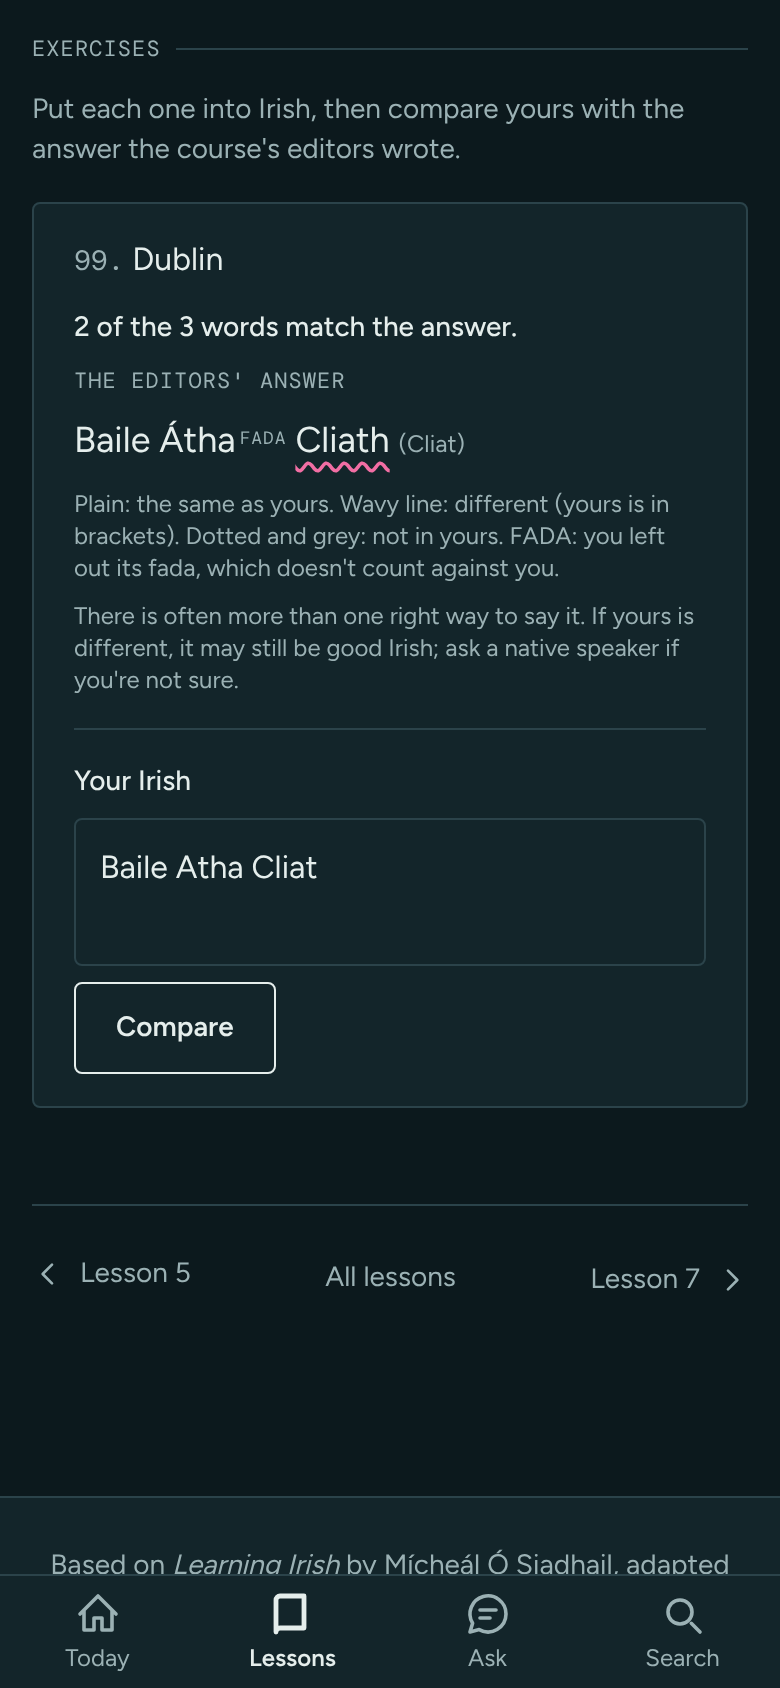
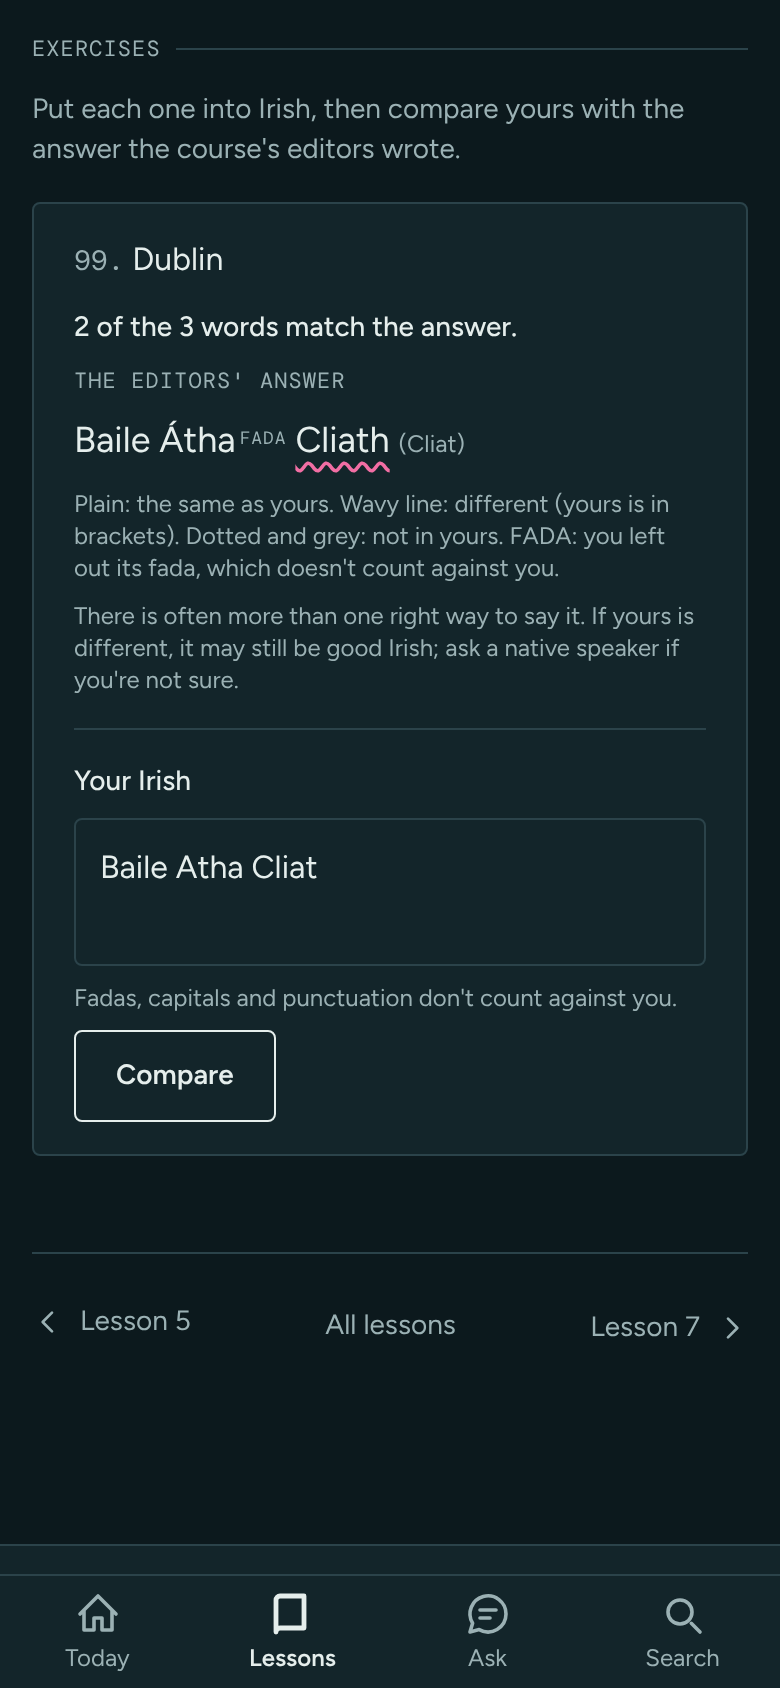
Exercises: tie each field to its exercise, a hint up front, review fixes
Claude-Session: https://claude.ai/code/session_017wWQS9kpwyW2WYLHLfETCr

diff --git a/test/controllers/exercise_attempts_controller_test.rb b/test/controllers/exercise_attempts_controller_test.rb
@@ -104,4 +104,41 @@ class ExerciseAttemptsControllerTest < ActionDispatch::IntegrationTest
 
     assert_redirected_to new_session_path
   end
+
+  test "admins can compare on a draft lesson" do
+    draft = Lesson.create!(number: 9301, title: "Draft", position: 9301, published: false)
+    exercise = draft.exercises.create!(number: 1, prompt: "Hidden", answer: "Dia dhuit", position: 1)
+    sign_in_as(users(:admin))
+
+    post exercise_attempt_path(exercise), params: { attempt: "Dia dhuit" }
+
+    assert_response :success
+  end
+
+  test "with several exercises, each form has its own field, label and prompt" do
+    other = @lesson.exercises.create!(number: 2, prompt: "Second prompt", answer: "Dia dhuit", position: 2)
+    sign_in_as(@learner)
+
+    get lesson_path(@lesson)
+
+    ids = css_select("#exercises textarea[name=attempt]").map { |t| t["id"] }
+    assert_equal 2, ids.uniq.size
+    ids.each { |id| assert_select "#exercises label[for=?]", id, 1 }
+    [ @exercise, other ].each do |exercise|
+      prompt = ActionView::RecordIdentifier.dom_id(exercise, :prompt)
+      assert_select "##{prompt}", 1
+      assert_select "textarea[aria-describedby~=?]", prompt, 1
+    end
+  end
+
+  test "a comparison only answers for the exercise it was posted for" do
+    @lesson.exercises.create!(number: 2, prompt: "Second prompt", answer: "Slán abhaile", position: 2)
+    sign_in_as(@learner)
+
+    post exercise_attempt_path(@exercise), params: { attempt: "Tá" }, headers: frame_headers
+
+    assert_select "turbo-frame", 1
+    assert_select "turbo-frame[id=?]", ActionView::RecordIdentifier.dom_id(@exercise, :attempt)
+    assert_no_match "Slán", response.body
+  end
 end
